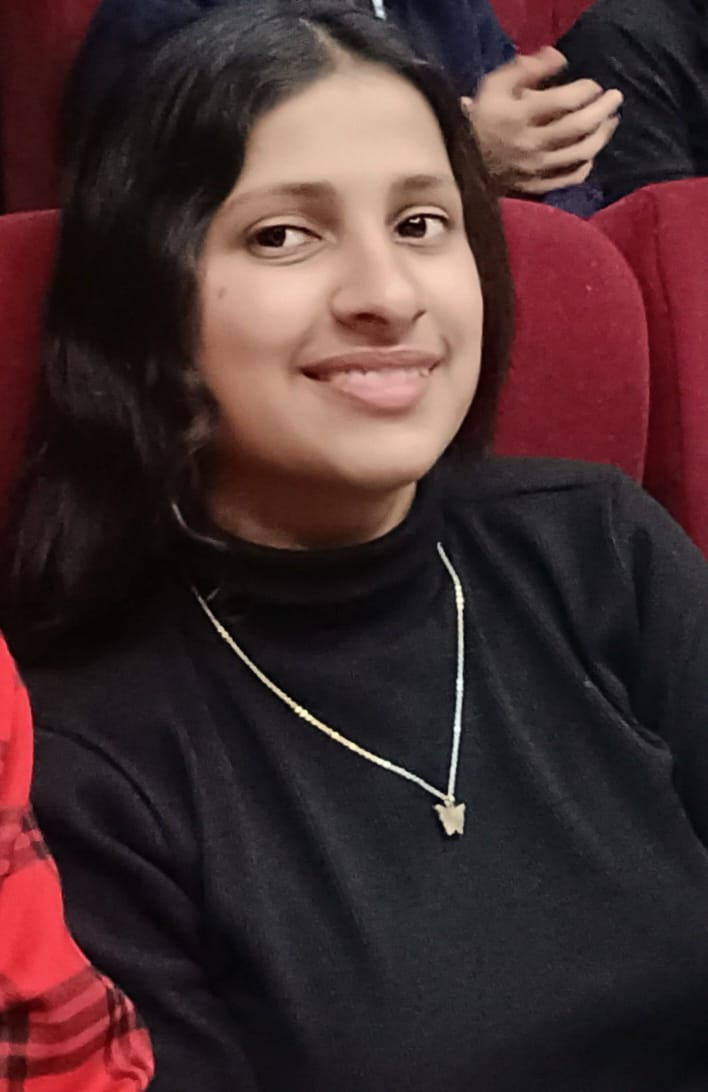
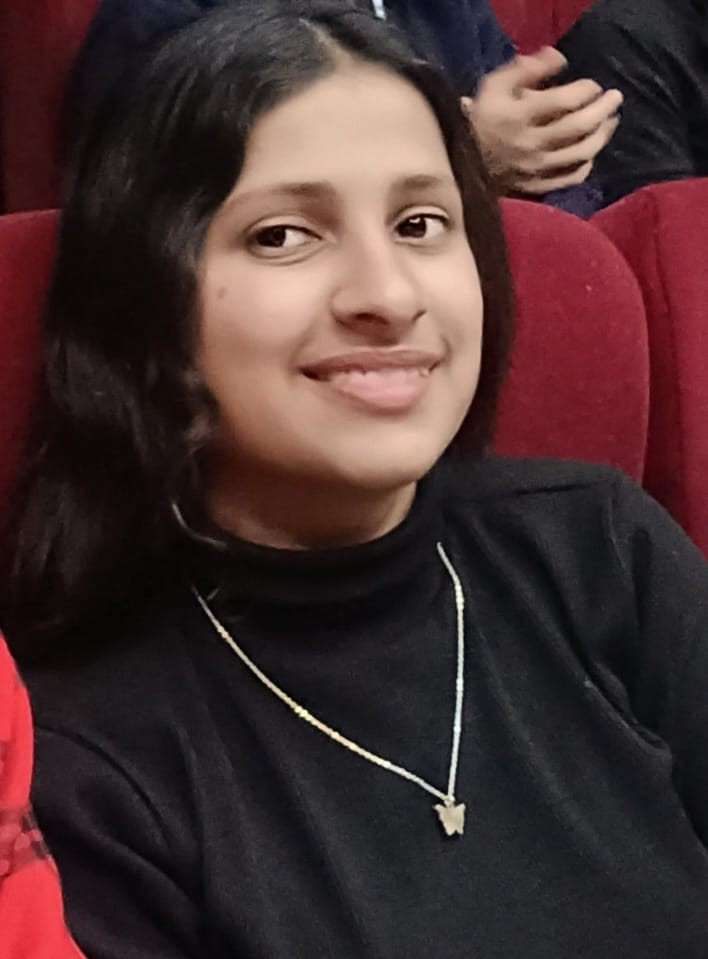
Refactor code structure for improved readability and maintainability

diff --git a/client/app/about/page.tsx b/client/app/about/page.tsx
@@ -647,7 +647,7 @@ export default function AboutUsPage() {
           <WaveAnimation darkMode={darkMode} />
         </div>
         
-        <div className="container mx-auto px-4 relative z-10">
+        <div className="container mx-auto px-12 relative z-10 text-justify">
           <motion.div
             initial={{ opacity: 0, y: 20 }}
             whileInView={{ opacity: 1, y: 0 }}
@@ -670,21 +670,21 @@ export default function AboutUsPage() {
                 whileInView={{ opacity: 1, y: 0 }}
                 transition={{ duration: 0.8, delay: index * 0.2 }}
                 viewport={{ once: true }}
-                className={`grid md:grid-cols-2 gap-10 items-center ${
+                className={`grid md:grid-cols-2 gap-2 items-center ${
                   index % 2 === 1 ? "md:flex-row-reverse" : ""
                 }`}
               >
                 <div className={`${index % 2 === 1 ? "md:order-2" : ""}`}>
                   <Tilt options={{ max: 15, scale: 1.03, speed: 400 }}>
-                    <div className={`overflow-hidden rounded-xl ${darkMode ? 'bg-gray-800' : 'bg-gray-200'} aspect-square shadow-xl`}>
+                    <div className={`overflow-hidden rounded-xl ${darkMode ? 'bg-gray-800' : 'bg-gray-200'} aspect-square shadow-xl w-56 md:w-96 mx-auto`}>
                       {founder.role.includes("Founder & CEO") ? (
-                        <Link href="https://www.founder.xyronixlabs.com" target="_blank" rel="noopener noreferrer">
+                        <Link href="https://www.xyronixlabs.com" target="_blank" rel="noopener noreferrer">
                           <div className="relative group">
                             <Image
-                              src={founder.image || "/placeholder.svg?height=600&width=600"}
+                              src={founder.image || "/placeholder.svg?height=300&width=300"}
                               alt={founder.name}
-                              width={600}
-                              height={600}
+                              width={400}
+                              height={400}
                               className="h-full w-full object-cover transition-transform duration-500 group-hover:scale-105"
                             />
                             <div className="absolute inset-0 bg-purple-600/20 opacity-0 group-hover:opacity-100 transition-opacity duration-300 flex items-center justify-center">
@@ -696,10 +696,10 @@ export default function AboutUsPage() {
                         </Link>
                       ) : (
                         <Image
-                          src={founder.image || "/placeholder.svg?height=600&width=600"}
+                          src={founder.image || "/placeholder.svg?height=300&width=300"}
                           alt={founder.name}
-                          width={600}
-                          height={600}
+                          width={400}
+                          height={400}
                           className="h-full w-full object-cover transition-transform duration-500 hover:scale-105"
                         />
                       )}
@@ -708,7 +708,7 @@ export default function AboutUsPage() {
                 </div>
                 <div className={`${index % 2 === 1 ? "md:order-1" : ""}`}>
                   {founder.role.includes("Founder & CEO") ? (
-                    <Link href="https://www.founder.xyronixlabs.com" target="_blank" rel="noopener noreferrer">
+                    <Link href="https://www.xyronixlabs.com" target="_blank" rel="noopener noreferrer">
                       <motion.h2 
                         className={`text-3xl font-bold hover:text-purple-400 transition-colors inline-flex items-center`}
                         whileHover={{ x: 5 }}
@@ -1056,7 +1056,7 @@ function TeamMemberCard({ member, index, isFounder, darkMode, onClick }: {
       <Tilt options={{ max: 15, scale: 1, speed: 300, glare: true, maxGlare: 0.5 }}>
         <div className="aspect-square overflow-hidden">
           {isFounder ? (
-            <Link href="https://www.founder.xyronixlabs.com" target="_blank" rel="noopener noreferrer">
+            <Link href="https://www.xyronixlabs.com" target="_blank" rel="noopener noreferrer">
               {/* Prevents event bubbling */}
               <div onClick={(e) => e.stopPropagation()}>
                 <Image
@@ -1082,7 +1082,7 @@ function TeamMemberCard({ member, index, isFounder, darkMode, onClick }: {
 
       <div className="p-6">
         {isFounder ? (
-          <Link href="https://www.founder.xyronixlabs.com" target="_blank" rel="noopener noreferrer">
+          <Link href="https://www.xyronixlabs.com" target="_blank" rel="noopener noreferrer">
             <h3 className="text-xl font-bold hover:text-purple-400 transition-colors flex items-center" onClick={(e) => e.stopPropagation()}>
               {member.name}
               <ArrowRight className="ml-2 h-4 w-4 opacity-0 group-hover:opacity-100 transition-opacity" />
@@ -1465,7 +1465,7 @@ const founders = [
     id: 1,
     name: "Aditya Seth",
     role: "Founder & Chief Executive Officer",
-    image: "/Aditya.jpg",
+    image: "/Employees/Me.jpg",
     bio: [
       "Aditya is a tech entrepreneur and innovator, specializing in AI, IoT, Robotics, and Networking. As the Founder & CEO of Xyronix Labs, he leads cutting-edge research and development in the Internet of Robotic Things (IoRT).",
       "He also serves as the Deputy CEO at Business Press India, COO at Shambhavi Techno Consultancy, and COO at Novatech Scientifics & Informatics. His leadership spans multiple industries, focusing on AI-driven automation, backend systems, and software engineering.",
@@ -1484,7 +1484,7 @@ const founders = [
     id: 2,
     name: "Hemaang Mehra",
     role: "Co-Founder & Chief Operations Officer",
-    image: "/Hema.jpg",
+    image: "/Employees/Hema.jpg",
     bio: [
       "Hemaang brings deep technical expertise and innovative thinking to our company. With a background in Electronics and Communication Engineering with specialization in artificial intelligence, he leads our company's operations.",
       "His passion for technology and problem-solving has been instrumental in building our platform from the ground up.",
@@ -1520,7 +1520,7 @@ const teamMembers = [
   {
     id: 1,
     name: "Darashveer Singh Dhillon",
-    role: "",
+    role: "General Manager",
     image: "/Employees/Darashveer Singh.jpg",
     social: {
       linkedin: "https://linkedin.com/in/darashveersinghdhillon",
@@ -1534,7 +1534,7 @@ const teamMembers = [
   {
     id: 2,
     name: "Priyanshu Chauhan",
-    role: "",
+    role: "General Manager",
     image: "/Employees/Priyanshu.jpg",
     social: {
       linkedin: "https://linkedin.com/in/priyanshu-chauhan-9ab9ac9",
@@ -1547,7 +1547,7 @@ const teamMembers = [
   {
     id: 3,
     name: "Shubhankar Shukla",
-    role: "",
+    role: "General Manager",
     image: "/Employees/Shubhankar Shukla.jpg",
     social: {
       linkedin: "https://linkedin.com/in/shubhankar-shukla-b88a86336",
@@ -1560,7 +1560,7 @@ const teamMembers = [
   {
     id: 4,
     name: "Devashish Biswas",
-    role: "",
+    role: "Team Lead -D1",
     image: "/Employees/Devashish.jpg",
     social: {
       linkedin: "https://linkedin.com/in/devashish-biswas-82b83a279",
@@ -1574,7 +1574,7 @@ const teamMembers = [
   {
     id: 5,
     name: "Yash Tomar",
-    role: "",
+    role: "Team Lead -C1",
     image: null,
     social: {
       linkedin: null,
@@ -1586,7 +1586,7 @@ const teamMembers = [
   {
     id: 6,
     name: "Pragya Jha",
-    role: "Data Science",
+    role: "D1 Team",
     image: "/Employees/Pragya Jha.jpg",
     social: {
       linkedin: "https://linkedin.com/in/pragya-jha-a6b328250",
@@ -1598,7 +1598,7 @@ const teamMembers = [
   {
     id: 7,
     name: "Yatharth Vashishth",
-    role: "Data Science",
+    role: "D1 Team",
     image: "/Employees/Yatharth Vashishth.jpg",
     social: {
       linkedin: "https://linkedin.com/in/yatharth-vashisht-1b3546310",
@@ -1612,7 +1612,7 @@ const teamMembers = [
   {
     id: 8,
     name: "Soumendra Narayan Roy",
-    role: "Research Analyst",
+    role: "Research Team",
     image: null,
     social: {
       linkedin: "https://linkedin.com/in/soumendra-narayan-roy-128135359",
@@ -1626,7 +1626,7 @@ const teamMembers = [
   {
     id: 9,
     name: "Shashank Kumar Lal",
-    role: "SDE Intern",
+    role: "D1 Team",
     image: null,
     social: {
       linkedin: "https://linkedin.com/in/shashank-kumar-lal-746b41364",
@@ -1665,7 +1665,7 @@ const teamMembers = [
   {
     id: 12,
     name: "Darsh Solanki",
-    role: "SDE Intern",
+    role: "D1 Team",
     image: "/Employees/Darsh.jpg",
     social: {
       linkedin: "https://linkedin.com/in/darsh-solanki-55a9b7222",
@@ -1679,7 +1679,7 @@ const teamMembers = [
   {
     id: 13,
     name: "Ayush Singh",
-    role: "Research Analyst",
+    role: "Research Team",
     image: "/Employees/Ayush.jpg",
     social: {
       linkedin: "https://linkedin.com/in/ayush-singh-a36969358",
@@ -1693,8 +1693,8 @@ const teamMembers = [
   {
     id: 14,
     name: "Ronit Jatasra",
-    role: "SDE Intern",
-    image: "/Employees/Ronit.jpg",
+    role: "D1 Team",
+    image: null,
     social: {
       linkedin: "https://linkedin.com/in/ronit-jatasra-120b4134a",
       github: "https://github.com/Ronit092",
@@ -1707,7 +1707,7 @@ const teamMembers = [
   {
     id: 15,
     name: "Ananya Das",
-    role: "Research Analyst Intern",
+    role: "Research Team",
     image: "/Employees/Ananya Das.jpg",
     social: {
       linkedin: "https://linkedin.com/in/ananya-das-185308308",
@@ -1721,7 +1721,7 @@ const teamMembers = [
   {
     id: 16,
     name: "Anshuman Prashar",
-    role: "SDE Intern",
+    role: "D1 Team",
     image: null,
     social: {
       linkedin: "https://linkedin.com/in/anshuman-parashar-8240b6254",
@@ -1748,7 +1748,7 @@ const teamMembers = [
   {
     id: 18,
     name: "Vansh Sethi",
-    role: "SDE Team",
+    role: "D1 Team",
     image: "/Employees/Vansh Sethi.jpg",
     social: {
       linkedin: "https://linkedin.com/in/vansh-sethi-b977a2276",
@@ -1761,7 +1761,7 @@ const teamMembers = [
   {
     id: 19,
     name: "Drishti Arora",
-    role: "Design Team Intern",
+    role: "Ex Research Team",
     image: "/Employees/Drishti_arora.jpg",
     social: {
       linkedin: "https://linkedin.com/in/drishti-arora-b4a39b257",
@@ -1774,7 +1774,7 @@ const teamMembers = [
   {
     id: 20,
     name: "Raghav Nanda",
-    role: "Ex Design Team Intern",
+    role: "Ex Design Team",
     image: "/Employees/Raghav Nanda.jpg",
     social: {
       linkedin: "https://linkedin.com/in/raghav-nanda-026104248",
@@ -1787,7 +1787,7 @@ const teamMembers = [
   {
     id: 21,
     name: "Saumya Omer",
-    role: "Ex Design Team Intern",
+    role: "Ex Design Team",
     image: "/Employees/Saumya Omer.jpg",
     social: {
       linkedin: "https://linkedin.com/in/saumya-omer-550539310",
